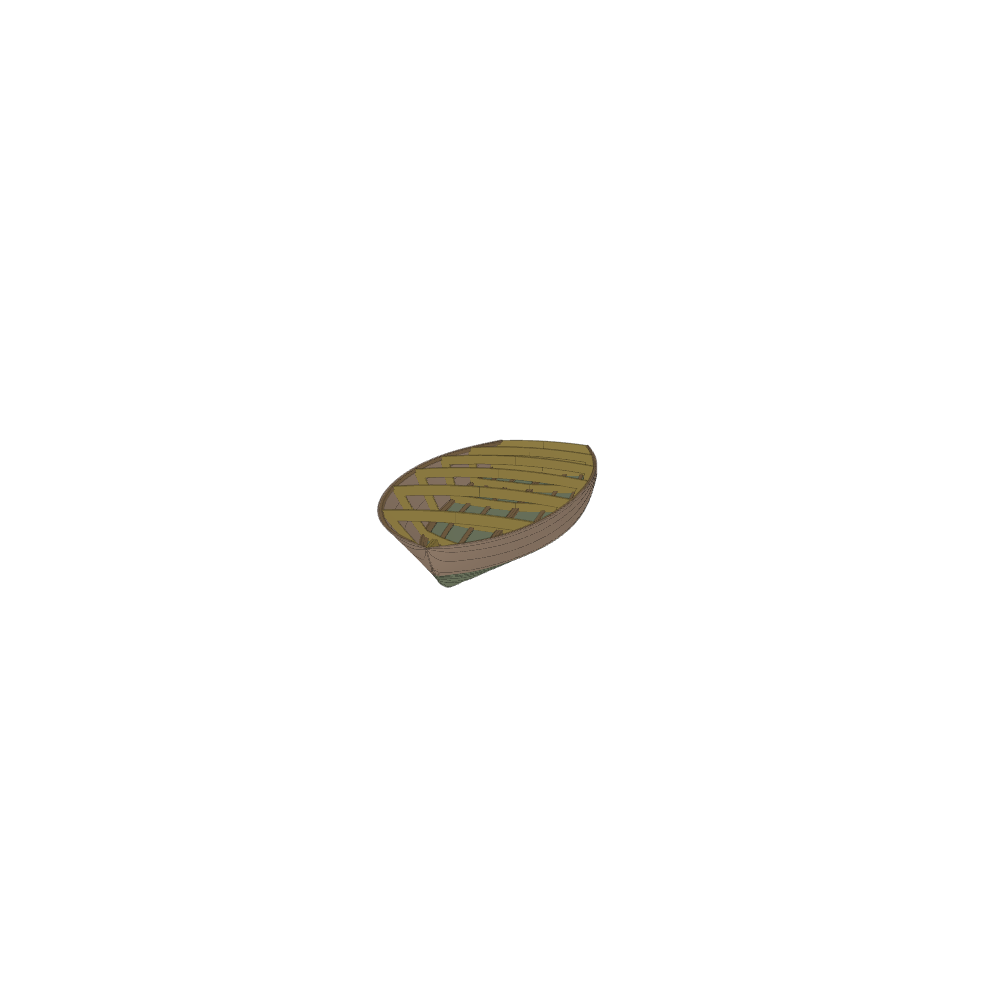
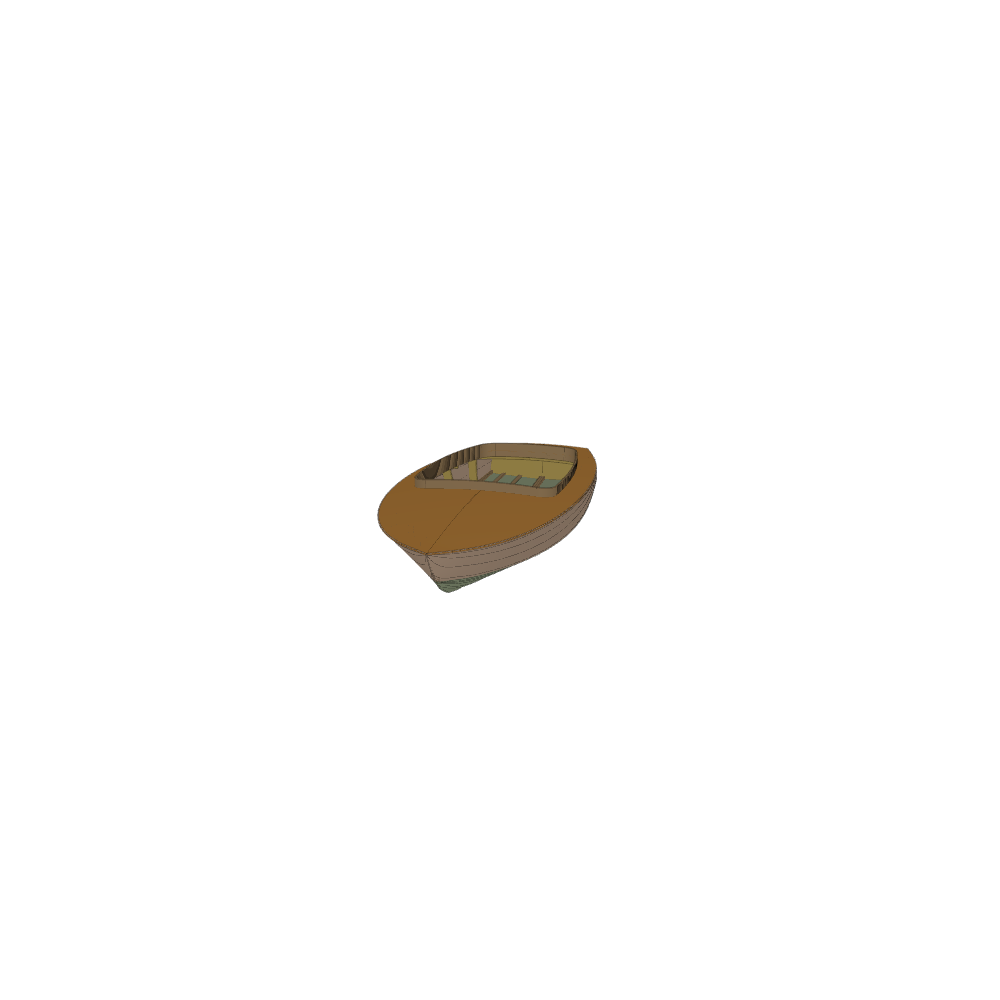
AI Save: Deck, cockpit and deck framing; faster notching and one hull volume

Changed region(s): [[0.372, 0.434, 0.62, 0.589]]

diff --git a/README.md b/README.md
@@ -20,18 +20,27 @@ A 4.33 m (14 ft 2 in) barrel-back plywood runabout, modelled from the hull refer
 - **Hull JSON** (project input) is a camber v1 hull in mm, fitted to the STL: 24 stations from 420 mm aft of the transom to the stem head, one template per station (one-hot blend weights) with 14 points each: deck edge, a point 5 mm above the sheer, sheer clamp edge, two side points, chine log edge, chine, chine log edge, outer and inner batten edges, keel hog edge, and a point past the centreline. The flat camber deck plane is 720 mm above the keel and `sheerTrim` brings it down to the real sheer.
 - **Hull Lines** runs tristan-huber/CamberToWires and moves the wires into the boat frame (x = 0 at the transom bottom, z = 0 at the keel). **Hull Cutters** trims at the centreline and the 12.0 deg raked transom. Strips come from crv.OpenWireLoft + util.FaceDifference, as in tristan-huber/CamberInterpreter.
 - Fit to the STL: mean 0.7 mm, 95 % within 2.2 mm, worst 5.2 mm (on the barrel-back curve at the transom corner).
-- CamberToWires scales its wires so their X extent equals `HullLengthInches`. It is set to the raw wire extent (Hull Lines 4713.971, Extended Hull Lines 4713.971, Inner Hull Lines 4710.283) so the scale is exactly 1. **If you edit the JSON, copy the new value from the `Width` atom inside each CamberToWires into its `HullLengthInches`.**
+- CamberToWires scales its wires so their X extent equals `HullLengthInches`. It is set to the raw wire extent (Hull Lines 4713.971, Inner Hull Lines 4710.283) so the scale is exactly 1. **If you edit the JSON, copy the new value from the `Width` atom inside each CamberToWires into its `HullLengthInches`.**
 
 ## Parts
 - **Planking**: Side Panel 6 mm and Bottom Panel 9 mm per side (port copies mirrored). **Flat Patterns** unrolls them with tristan-huber/crv.MeshUnroll: side 4575 x 724 mm, bottom 4176 x 864 mm (scarf two 8 ft sheets for each).
-- **Frames**: 5 ring frames in 18 mm plywood at `Stations` = 700, 1400, 2100, 2800, 3500 mm from the transom bottom, 90 mm band, with the crowned deck beam on top (6 m crown radius, matching the 22 mm crown of the STL transom).
-- **Transom** 18 mm, **Stem** two 18 mm laminations from x = 3300 mm to the stem head, **Keel Hog** 64 x 25 mm to x = 3300 mm.
+- **Frames**: 5 ring frames in 18 mm plywood at **FrameStations** (project input) = 700, 1400, 2100, 2800, 3500 mm from the transom bottom, 90 mm band, with the crowned deck beam on top (6 m crown radius, matching the 22 mm crown of the STL transom).
+- **Transom** 18 mm, **Stem** two 18 mm laminations from x = 3300 mm to the stem head, **Keel Hog** 64 mm wide and 34 mm deep to x = 3300 mm.
 - **Longitudinals**: sheer clamps, chine logs and two bottom battens per side. Each is a strip of the camber hull between two hull lines, given depth inward, so it follows the twist of the planking.
 - Frames, transom, stem and keel hog are cut from **Inner Hull Interior Starboard**, the volume inside the planking and a 9 mm deck (built from **Inner Hull Lines**, the camber sections offset inward by the planking).
-- **CNC Parts**: frames and transom notched by the keel hog and longitudinals. **Cut Layout 18mm** nests them, with the transom and stem, on 4 sheets of 2440 x 1220.
+- **Deck**: **Deck Plan** is the sheer line seen from above. The 9 mm deck is a skin with a 6 m crown radius, cut to the deck plan, trimmed at the transom by Hull Cutters and split into two halves on the centreline. **Cockpit Opening** (x = 720 to 2780 mm, 200 mm side decks, 150 mm corner radius) is cut out of it and **Coaming** (12 mm, 80 mm above the deck) lines it. **Deck Flat Patterns** unrolls the two deck halves.
+- **Deck Framing**: a 90 mm king plank and three 40 x 20 mm deck battens per side under the deck. **Cockpit Beam Cut** removes the frame beams above z = 470 mm inside the cockpit in the assembled boat.
+- **CNC Parts**: frames and transom notched by the keel hog, longitudinals and deck framing. **Cut Layout 18mm** nests them, with the stem, on 3 sheets of 2440 x 1220 (the frames are laid out whole, before the cockpit beam cut).
+
+## Keeping the compute time down
+- Notches: **Notch Zones** (inside CNC Parts) clips the keel hog, longitudinals and deck framing to 60 mm boxes around each frame station and a 400 mm box at the transom, and the clipped pieces are fused into one cutter. Each frame and the transom then takes one boolean cut instead of 16 cuts against full-length members (this step went from about an hour to a few minutes).
+- There is one hull volume, the inner one. The deck is cut from the deck plan and Hull Cutters rather than from a second, outer hull volume.
+- The crowned lofts (Deck Crown Volume, deck skin, coaming, deck framing layer) use 24 sections along the sheer.
+- Each stem lamination subtracts a shifted copy of its own blank, not the whole hull volume.
+- The slowest steps left are building the inner hull volume and intersecting it with the frames, transom, stem, keel hog and longitudinals. A change to the Hull JSON or thicknesses recomputes all of these.
 
 ## Assumed (not in the references)
-Plywood thicknesses (6 / 9 / 18 mm, 9 mm deck), frame stations, member sizes and where the stem starts are estimates from the photos; all are inputs. The deck, cockpit, deck battens and hardware are not modelled yet.
+Plywood thicknesses (6 / 9 / 18 mm, 9 mm deck), frame stations, member sizes, the deck framing, the cockpit and coaming sizes and where the stem starts are estimates from the photos; all are inputs. Hardware is not modelled.
 
 
 
